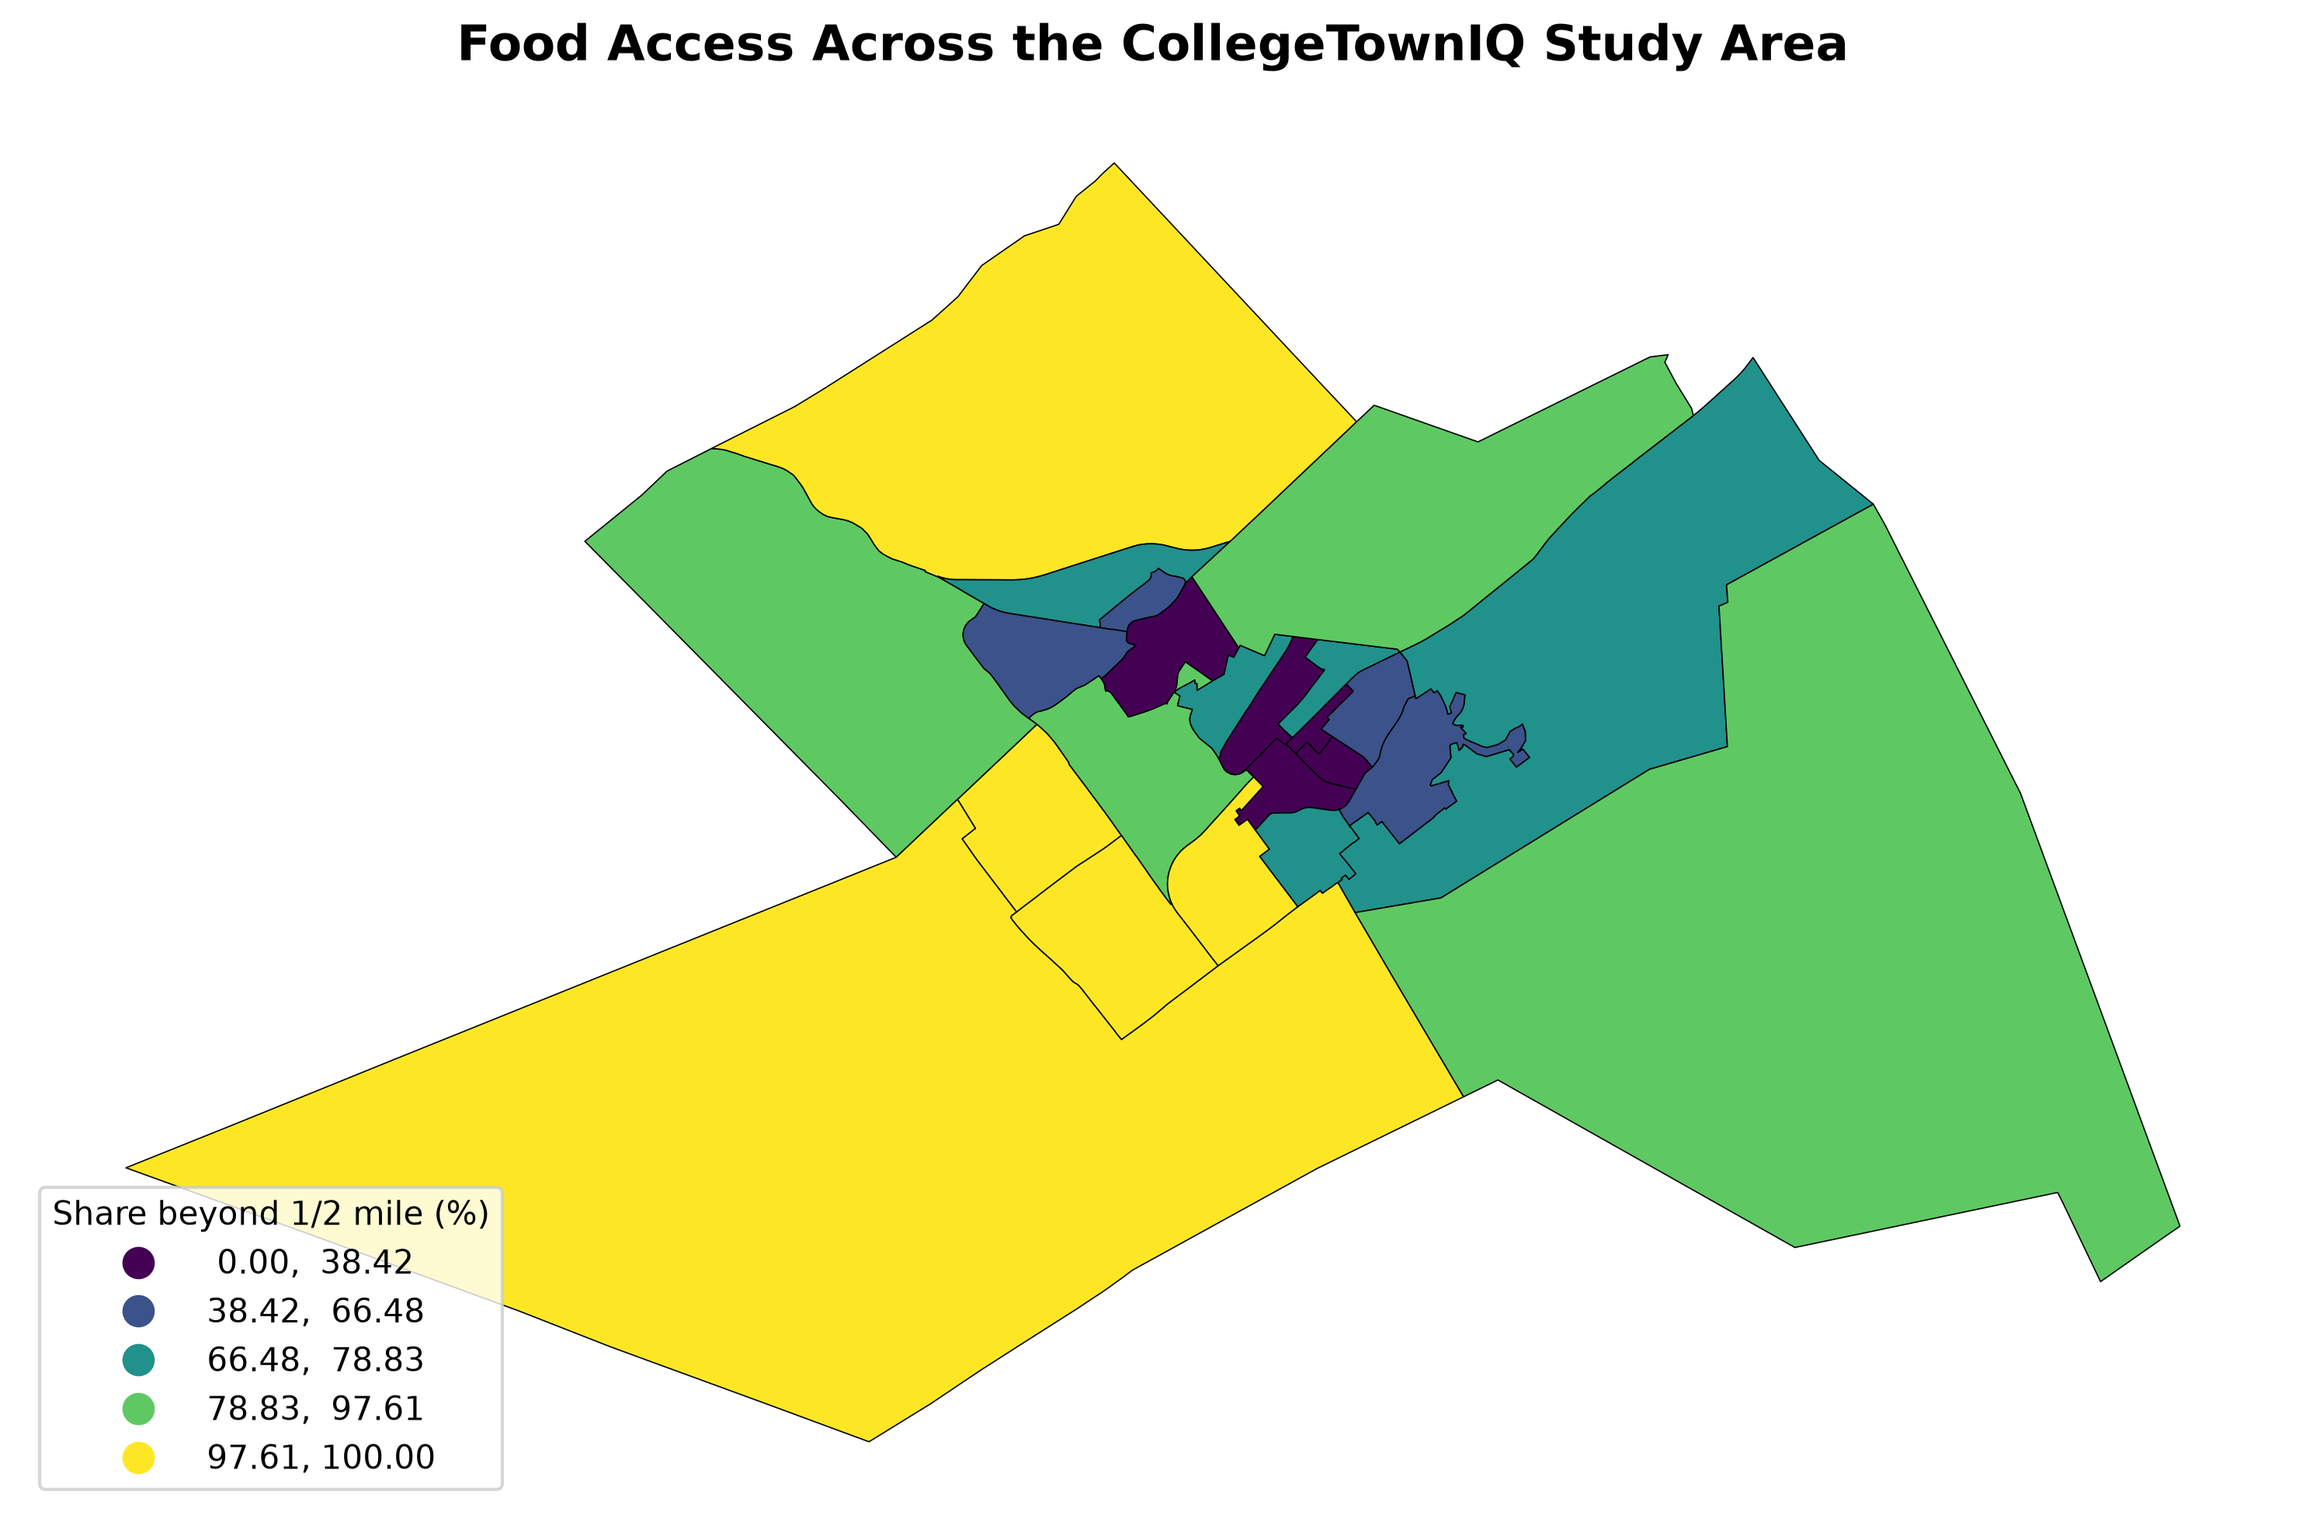
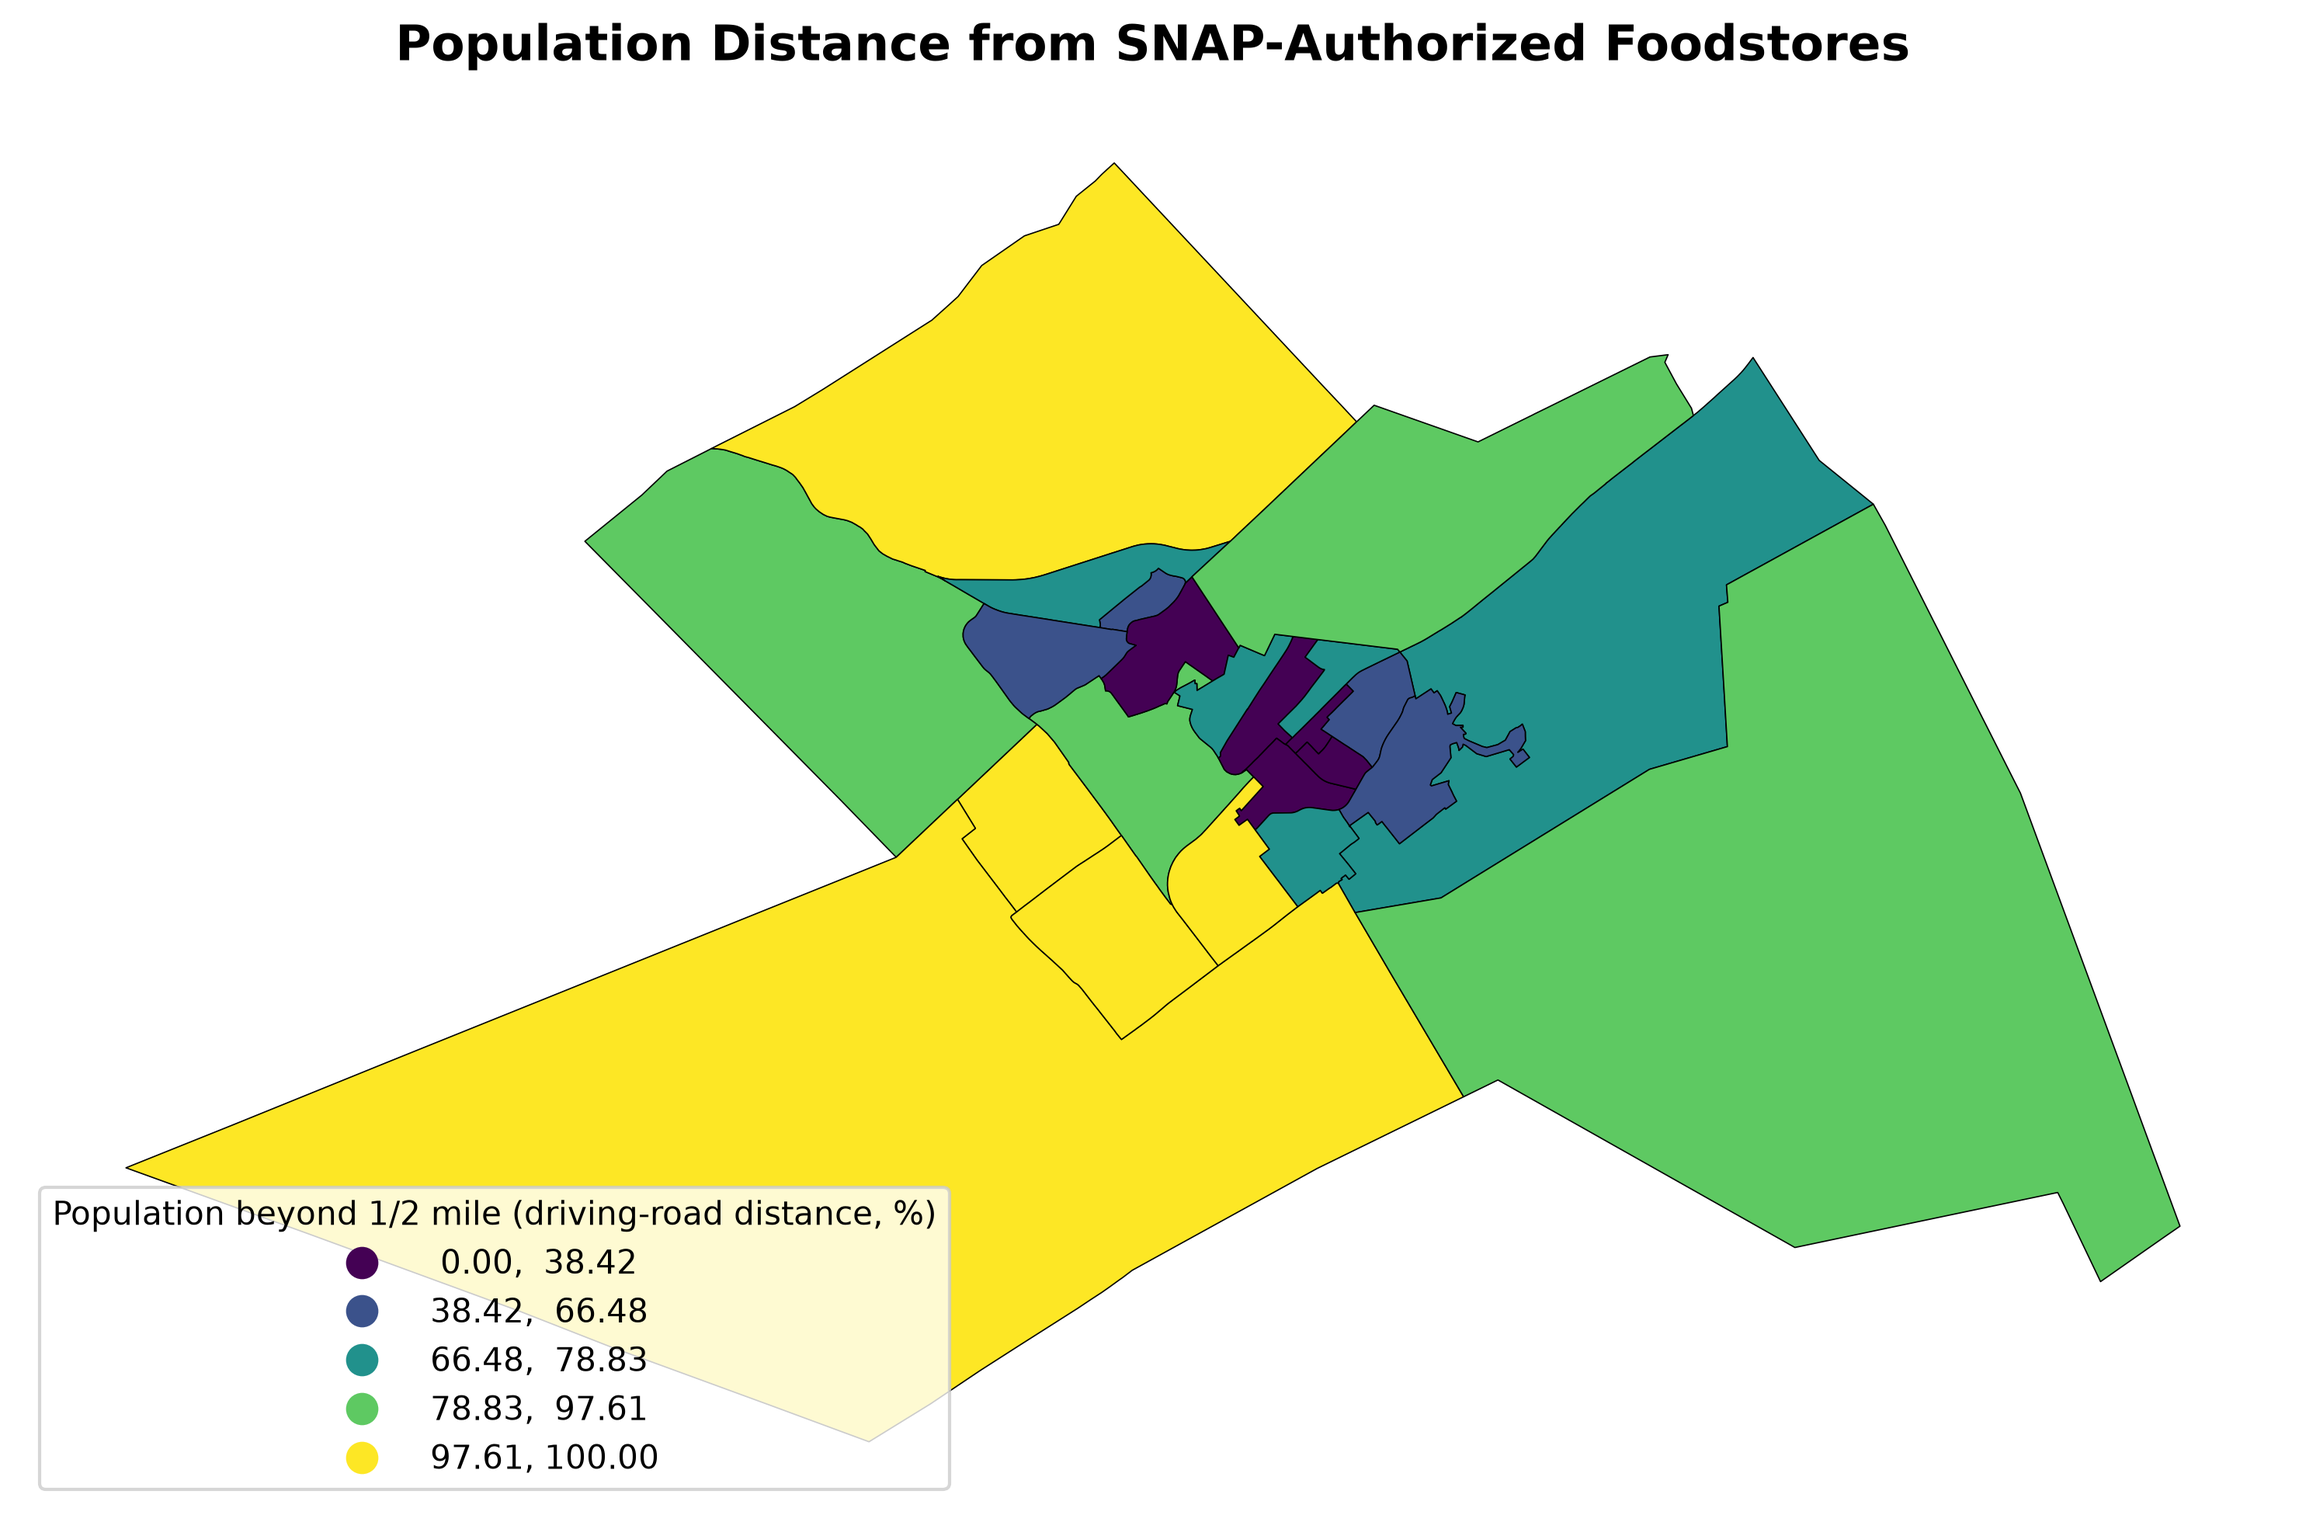
Improve accessibility quality checks and map reporting

Changed region(s): [[0.031, 0.7745, 0.4337, 0.9604], [0.1549, 0.0, 0.8364, 0.062]]

diff --git a/dashboard/index.html b/dashboard/index.html
@@ -263,6 +263,25 @@ select {
     color: var(--muted);
 }
 
+.legend-missing {
+    display: flex;
+    align-items: center;
+    gap: 7px;
+    margin-top: 9px;
+    font-size: 11px;
+    color: var(--muted);
+}
+
+.legend-missing-swatch {
+    display: inline-block;
+    width: 12px;
+    height: 12px;
+    border-radius: 2px;
+    background: #d1d5db;
+    border: 1px solid #9ca3af;
+}
+
+
 /* =========================
    MAIN DASHBOARD LAYOUT
    ========================= */
@@ -1332,9 +1351,8 @@ const metricInfo = {
 
   food_access_beyond_half_mile_network_share: {
 
-    title: "Food Access",
-
-    label: "Population Beyond 1/2 Mile",
+    title: "SNAP Retailer Access",
+    label: "Population Beyond 1/2 Mile (Driving Distance)",
 
     format: value => value.toFixed(1) + "%"
 
@@ -1438,10 +1456,17 @@ function addLegend(metric) {
       `).join("")}
     </div>
 
+
     <div class="legend-labels">
       <span>${format(min)}</span>
       <span>${format(max)}</span>
     </div>
+
+    <div class="legend-missing">
+      <span class="legend-missing-swatch"></span>
+     <span>Gray = data unavailable</span>
+    </div>
+
 
     <div class="comparison-legend">
       <div class="comparison-legend-item">
@@ -1485,51 +1510,6 @@ function styleFeature(feature) {
     color: outlineColor,
     fillOpacity: 0.75
   };
-}
-
-
-function addLegend(metric) {
-    const oldLegend = document.querySelector(".map-legend");
-
-    if (oldLegend) {
-        oldLegend.remove();
-    }
-
-    const values = getValues(metric);
-
-    if (!values.length) return;
-
-    const min = Math.min(...values);
-    const max = Math.max(...values);
-
-    const legend = L.control({ position: "bottomright" });
-
-    legend.onAdd = function() {
-        const div = L.DomUtil.create("div", "map-legend");
-
-        div.innerHTML = `
-            <div class="legend-title">
-                ${metricInfo[metric].label}
-            </div>
-
-            <div class="legend-scale">
-                <span></span>
-                <span></span>
-                <span></span>
-                <span></span>
-                <span></span>
-            </div>
-
-            <div class="legend-labels">
-                <span>${metricInfo[metric].format(min)}</span>
-                <span>${metricInfo[metric].format(max)}</span>
-            </div>
-        `;
-
-        return div;
-    };
-
-    legend.addTo(map);
 }
 
 function updateMap() {

diff --git a/src/geospatial/calculate_network_accessibility.py b/src/geospatial/calculate_network_accessibility.py
@@ -183,6 +183,7 @@ def calculate_nearest_stop_distances(
     return distances
 
 
+
 def calculate_accessibility(
     tracts,
     walking_network,
@@ -190,8 +191,15 @@ def calculate_accessibility(
 ):
     results = []
 
-    for _, tract in tracts.iterrows():
+    # Provisional quality-control threshold.
+    MAX_SNAP_DISTANCE_M = 250
 
+    nodes = ox.graph_to_gdfs(
+        walking_network,
+        edges=False,
+    )
+
+    for _, tract in tracts.iterrows():
         points = create_sample_points(
             tract.geometry,
             GRID_SPACING_METERS,
@@ -203,42 +211,105 @@ def calculate_accessibility(
             Y=[point.y for point in points],
         )
 
-        point_distances = []
+        point_records = []
 
-        for node in sample_nodes:
-            if node in network_distances:
-                point_distances.append(
-                    network_distances[node]
-                )
-
-        if not point_distances:
-            raise ValueError(
-                f"No network distance found "
-                f"for tract {tract['GEOID']}"
+        for point, node in zip(points, sample_nodes):
+            snap_distance = point.distance(
+                nodes.loc[node].geometry
             )
 
-        distances = pd.Series(
-            point_distances
-        )
+            network_distance = network_distances.get(
+                node
+            )
 
-        results.append(
-            {
-                "GEOID": tract["GEOID"],
-                "sample_point_count": len(
-                    distances
-                ),
-                "median_network_transit_distance_m":
-                    distances.median(),
-                "p25_network_transit_distance_m":
-                    distances.quantile(0.25),
-                "p75_network_transit_distance_m":
-                    distances.quantile(0.75),
-                "max_network_transit_distance_m":
-                    distances.max(),
-            }
-        )
+            point_records.append({
+                "snap_distance_m": snap_distance,
+                "network_distance_m": network_distance,
+            })
+
+        point_df = pd.DataFrame(point_records)
+
+        # Only points with a network distance and a
+        # sufficiently close network node are retained.
+        valid = point_df[
+            point_df["network_distance_m"].notna()
+            & (
+                point_df["snap_distance_m"]
+                <= MAX_SNAP_DISTANCE_M
+            )
+        ]
+
+        # Original baseline: network distance from the
+        # snapped sample-point node to the nearest stop.
+        # Sensitivity estimate adds straight-line snap distance.
+        # This is not a true routed walking distance.
+        if valid.empty:
+            median_distance = float("nan")
+            p25_distance = float("nan")
+            p75_distance = float("nan")
+            max_distance = float("nan")
+
+            median_corrected_distance = float("nan")
+            p25_corrected_distance = float("nan")
+            p75_corrected_distance = float("nan")
+            max_corrected_distance = float("nan")
+        else:
+            baseline_distances = valid["network_distance_m"]
+
+            corrected_distances = (
+                valid["network_distance_m"]
+                + valid["snap_distance_m"]
+            )
+
+            median_distance = baseline_distances.median()
+            p25_distance = baseline_distances.quantile(0.25)
+            p75_distance = baseline_distances.quantile(0.75)
+            max_distance = baseline_distances.max()
+
+            median_corrected_distance = corrected_distances.median()
+            p25_corrected_distance = corrected_distances.quantile(0.25)
+            p75_corrected_distance = corrected_distances.quantile(0.75)
+            max_corrected_distance = corrected_distances.max()
+
+        results.append({
+            "GEOID": str(tract["GEOID"]),
+            "sample_point_count": len(point_df),
+            "valid_sample_point_count": len(valid),
+            "pct_points_within_250m": (
+                len(valid) / len(point_df) * 100
+                if len(point_df) else float("nan")
+            ),
+            "median_snap_distance_m": (
+                point_df["snap_distance_m"].median()
+            ),
+            "median_network_transit_distance_m": (
+                median_distance
+            ),
+            "p25_network_transit_distance_m": (
+                p25_distance
+            ),
+            "p75_network_transit_distance_m": (
+                p75_distance
+            ),
+            "max_network_transit_distance_m": (
+                max_distance
+            ),
+            "median_snap_adjusted_transit_distance_m": (
+                median_corrected_distance
+            ),
+            "p25_snap_adjusted_transit_distance_m": (
+                p25_corrected_distance
+            ),
+            "p75_snap_adjusted_transit_distance_m": (
+                p75_corrected_distance
+            ),
+            "max_snap_adjusted_transit_distance_m": (
+                max_corrected_distance
+            ),
+        })
 
     return pd.DataFrame(results)
+
 
 
 def save_results(

diff --git a/src/analysis/create_geospatial_maps.py b/src/analysis/create_geospatial_maps.py
@@ -70,25 +70,28 @@ def main() -> None:
 
     create_map(
         dataset,
-        column="median_gross_rent",
-        title="Median Gross Rent Across the CollegeTownIQ Study Area",
-        legend_label="Median gross rent ($)",
-        filename="median_gross_rent_map.png",
-    )
-
-    create_map(
-        dataset,
-        column="median_transit_distance_m",
+        column="median_network_transit_distance_m",
         title="Network Transit Accessibility Across the CollegeTownIQ Study Area",
-        legend_label="Median pedestrian-network distance to transit stop (m)",
+        legend_label="Median network distance to transit stop (m)",
         filename="transit_accessibility_map.png",
     )
 
     create_map(
         dataset,
+        column="median_gross_rent",
+        title="Housing Affordability Across the CollegeTownIQ Study Area",
+        legend_label="Median gross rent ($ per month)",
+        filename="median_gross_rent_map.png",
+    )
+
+    create_map(
+        dataset,
         column="food_access_beyond_half_mile_network_share",
-        title="Food Access Across the CollegeTownIQ Study Area",
-        legend_label="Share beyond 1/2 mile (%)",
+        title="Population Distance from SNAP-Authorized Foodstores",
+        legend_label=(
+            "Population beyond 1/2 mile "
+            "(driving-road distance, %)"
+        ),
         filename="food_access_map.png",
     )
 

diff --git a/docs/regression_provenance.md b/docs/regression_provenance.md
@@ -44,3 +44,31 @@ The historical numbers are retained only as documented historical results. They 
 The current 250 m regression is the primary reported model. The README reflects its current estimates. The historical discrepancy, model specification, likely sample-selection change, and reproduction limitation are documented here.
 
 The 50% overlap threshold should not be changed solely to recover statistical significance. Any future comparison must identify the input dataset, tract-selection rule, complete-case sample, distance variable, and regression specification.
+
+## Data limitations and accessibility quality
+
+### Unavailable ACS estimates
+
+The 23-tract study-area dataset contains two tracts with unavailable American Community Survey (ACS) estimates for median gross rent, median rent burden, and median household income. These unavailable values are retained as missing rather than replaced with zero or imputed values. A missing estimate does not mean that the underlying value is zero.
+
+The missing estimates reduce the complete-case sample available to the primary regression to 21 observations. Regression results should therefore be interpreted in light of the small sample size and the limited number of census tracts in the study area.
+
+Vehicle-access values are available for these tracts, but that does not resolve the missing rent and income estimates.
+
+### Pedestrian-network accessibility limitations
+
+The pedestrian-network accessibility workflow estimates distances from sampled tract locations to transit stops using a walking-network graph. Sample locations are associated with nearby graph nodes, and the current workflow applies a 250 m maximum sample-to-node snapping-distance filter.
+
+Coverage is uneven across tracts. Some tracts have substantial proportions of sample points beyond the 250 m snapping threshold, so the retained sample may represent those tracts less completely. Tract-level distance estimates should be interpreted alongside the coverage diagnostics rather than as equally reliable measurements for every tract.
+
+The current snap-adjusted distance is an approximate sensitivity measure: it adds the straight-line distance from a sample point to its snapped network node to the network distance from that node to a transit stop. It is not a fully routed pedestrian distance for the connector segment and may not account for barriers or inaccessible land.
+
+The baseline network-distance metric and the snap-adjusted sensitivity measure should be distinguished in reporting. Neither should be interpreted as a complete measure of transit service quality or actual travel time.
+
+### Food-access measure
+
+The USDA 2025 SNAP Retailer Access Map data provide separate straight-line-distance and driving-road-distance indicators. The driving-distance measure is not a pedestrian-network measure and should not be described as walking access. These indicators represent a specific distance-based aspect of access to SNAP-authorized retailers; they do not, by themselves, measure food insecurity, affordability, or access to every food retailer.
+
+### Interpretation and reporting
+
+The project reports unavailable ACS estimates as missing, documents the accessibility workflow and its coverage limitations, and distinguishes driving-distance food-access indicators from pedestrian-network transit accessibility. Findings should be interpreted as exploratory tract-level analysis rather than causal evidence.
